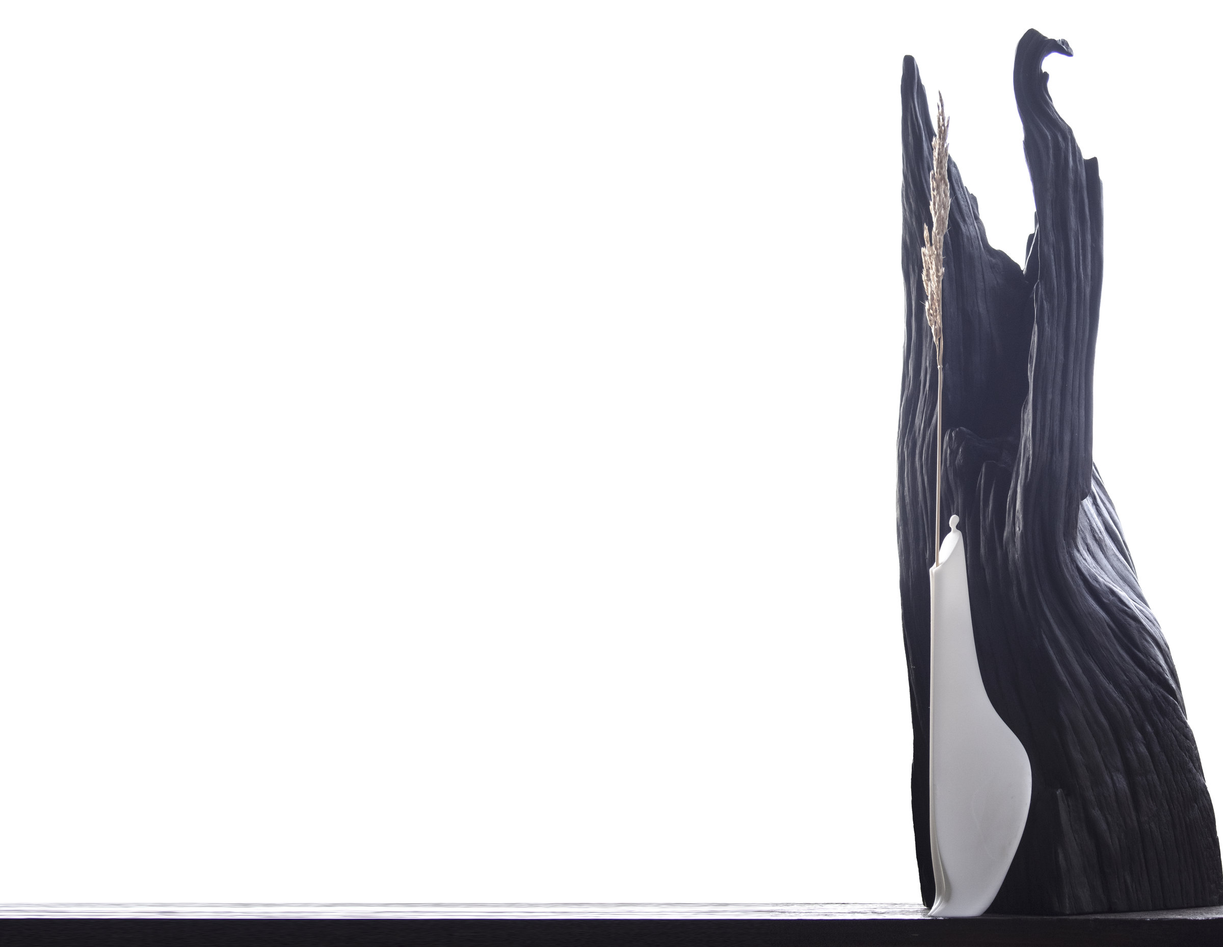
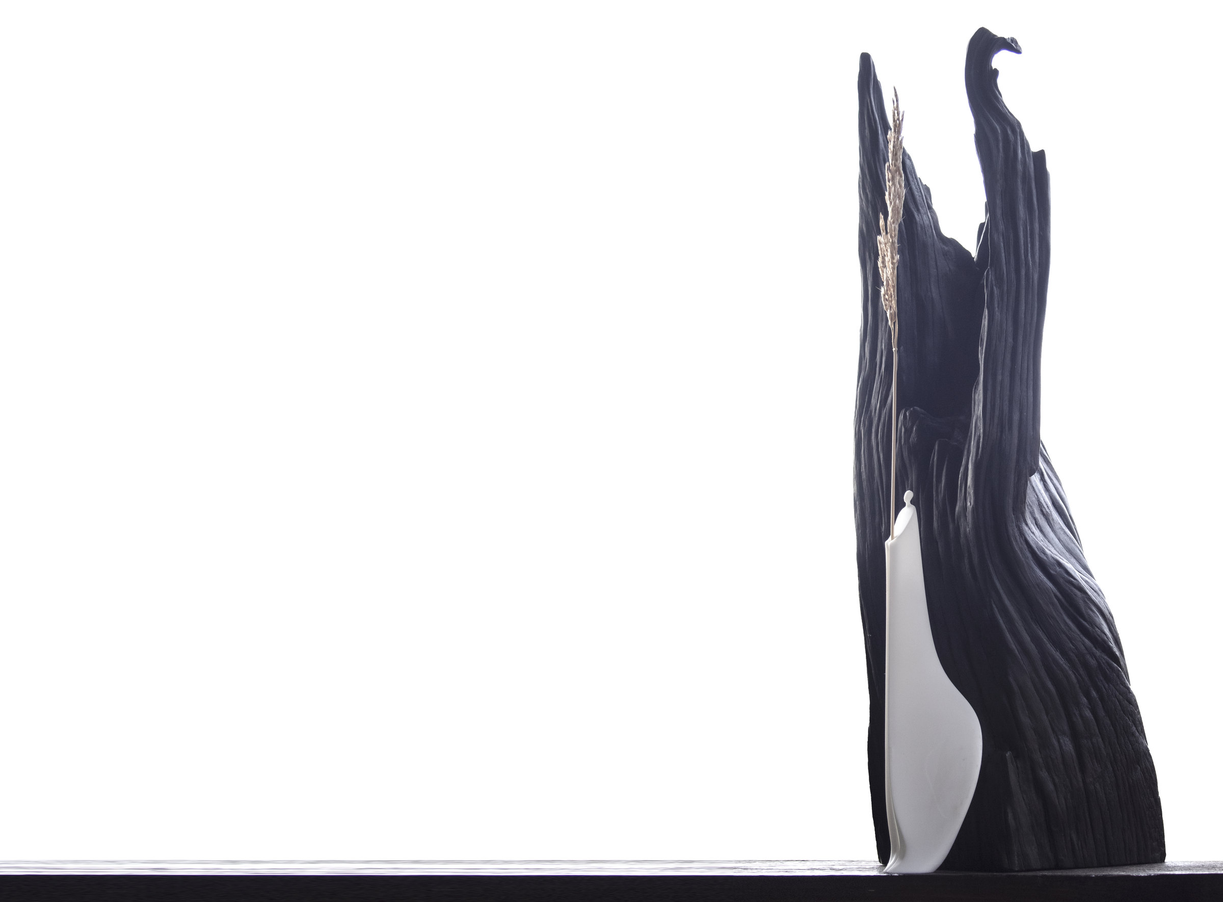
Show the Making photograph whole, with the white beyond the trunk's foot
The photograph was cut at 7300 of the source's 7667 wide, at the trunk's
right edge (2400 x 1858). The author asked for it whole the same evening:
it is now exported at 2400 x 1769, and the motes' lines, which the author
had approved, were scaled by 7300/7667 rather than traced again, since the
cut had been taken off the right only.

These are the author's local changes of 2026-10-30, committed as they were.

Claude-Session: https://claude.ai/code/session_01BNc498tNVJ9g7TFMuu5ZaT

Changed region(s): [[0.6875, 0.0311, 1.0, 0.9949], [0.625, 0.9327, 0.6562, 0.9638]]

diff --git a/public/pandov-grain.js b/public/pandov-grain.js
@@ -25,7 +25,7 @@
 (() => {
   if (window.__pfxGrain) window.__pfxGrain.remove();
   if (matchMedia('(prefers-reduced-motion: reduce)').matches) return;
-  const D = {"w":2400,"h":1858,"lines":[{"p":[2090,1062,2090,1059,2089,1056,2089,1052,2089,1048,2089,1044,2089,1041,2090,1037,2090,1033,2091,1029,2090,1025,2090,1021,2090,1017,2090,1013,2090,1009,2090,1005,2090,1001,2090,997,2090,993,2090,989,2091,985,2091,981,2091,977,2092,973,2092,969,2093,966,2094,962,2095,958,2096,954,2097,950,2097,946,2098,942,2098,938,2098,934,2098,930,2099,926,2099,922,2100,918,2100,914,2101,910,2101,907,2101,903,2101,899,2101,895,2101,891,2101,887,2101,883,2102,879,2102,875,2103,871,2103,867,2103,863,2103,859,2104,855,2104,851,2104,847,2104,843,2103,839,2103,835,2103,831,2103,827,2103,823,2103,819,2104,816,2104,812,2105,808,2105,804,2104,800,2104,796,2104,793,2104,789,2104,785,2104,781,2104,777,2104,773,2104,769,2104,765,2105,761,2105,757,2105,753,2105,749,2106,745,2106,741,2106,737,2107,733,2107,729,2107,725,2107,721,2108,717,2108,713,2108,709,2109,705,2110,701,2110,697,2111,693,2111,689,2112,685,2112,681,2112,678,2112,674,2112,670,2112,666,2112,662,2113,658,2113,654,2113,650,2113,646,2113,642,2113,638,2114,634,2114,630,2114,626,2115,622,2115,618,2115,614,2115,610,2115,606,2115,602,2116,598,2116,594,2116,590,2116,586,2116,582,2116,578,2116,574,2116,570,2116,566,2116,562,2116,558,2117,554,2117,550,2116,546,2116,542,2116,538,2115,534,2115,530,2114,526,2114,522,2114,518,2114,514,2114,510,2114,507,2114,503,2113,499,2113,495,2113,491,2113,487,2113,483,2113,479,2113,475,2113,473],"size":0.85,"major":false},{"p":[2272,1521,2271,1517,2269,1513,2268,1510,2266,1506,2265,1502,2264,1498,2263,1494,2262,1491,2261,1487,2259,1483,2258,1479,2256,1476,2254,1472,2253,1468,2251,1465,2250,1461,2249,1457,2248,1453,2247,1449,2245,1446,2244,1442,2242,1439,2240,1435,2238,1432,2235,1428,2233,1425,2231,1422,2228,1419,2227,1415,2225,1411,2224,1407,2223,1404,2221,1400,2219,1397,2217,1393,2215,1390,2213,1386,2211,1383,2210,1379,2210,1375,2208,1371,2206,1368,2203,1365,2201,1362,2198,1359,2196,1356,2193,1353,2190,1350,2188,1347,2186,1343,2184,1340,2181,1337,2179,1334,2176,1331,2173,1328,2171,1325,2169,1321,2166,1318,2163,1315,2161,1312,2158,1310,2155,1306,2153,1303,2151,1300,2148,1297,2146,1293,2144,1290,2142,1287,2140,1283,2138,1280,2136,1276,2135,1272,2134,1269,2132,1265,2130,1261,2128,1258,2127,1254,2125,1250,2123,1247,2121,1243,2119,1240,2117,1237,2115,1233,2113,1230,2111,1226,2110,1223,2108,1219,2106,1215,2105,1212,2103,1208,2101,1204,2099,1201,2097,1198,2095,1194,2092,1191,2090,1188,2088,1185,2085,1182,2083,1178,2081,1175,2080,1171,2078,1167,2076,1164,2074,1160,2072,1157,2070,1154,2068,1150,2067,1146,2066,1143,2065,1139,2063,1135,2062,1131,2061,1127,2060,1123,2059,1120,2058,1116,2057,1112,2057,1108,2056,1104,2055,1100,2055,1096,2054,1092,2052,1088,2051,1085,2051,1081,2051,1077,2050,1073,2049,1069,2049,1065,2048,1061,2048,1057,2048,1053,2048,1049,2047,1045,2046,1041,2046,1037,2045,1033,2045,1029,2045,1025,2044,1021],"size":1.0,"major":true},{"p":[2235,1616,2234,1612,2233,1608,2233,1604,2233,1600,2232,1596,2231,1592,2230,1588,2228,1585,2227,1581,2227,1577,2226,1573,2225,1569,2224,1565,2223,1561,2222,1557,2221,1554,2219,1550,2218,1546,2217,1542,2216,1538,2216,1534,2214,1530,2213,1527,2213,1523,2212,1519,2211,1515,2210,1511,2210,1507,2209,1503,2207,1500,2205,1496,2204,1492,2203,1489,2201,1485,2200,1481,2199,1477,2197,1473,2196,1470,2196,1466,2195,1462,2194,1458,2193,1454,2191,1450,2190,1446,2189,1443,2187,1439,2186,1435,2184,1432,2182,1428,2181,1424,2179,1421,2177,1417,2175,1414,2173,1410,2171,1407,2169,1403,2167,1400,2165,1396,2163,1393,2161,1390,2160,1386,2158,1382,2157,1379,2155,1375,2154,1371,2152,1368,2150,1364,2149,1360,2149,1356,2149,1352,2148,1348,2145,1345,2143,1342,2140,1339,2138,1336,2136,1332,2134,1329,2132,1325,2130,1322,2128,1318,2127,1315,2125,1311,2122,1308,2120,1305,2117,1302,2115,1298,2113,1295,2112,1291,2112,1287,2112,1283,2111,1279,2109,1275,2107,1272,2105,1269,2103,1265,2102,1262,2100,1258,2098,1254,2095,1251,2092,1248,2090,1246,2087,1243,2084,1240,2082,1237,2079,1234,2077,1230,2076,1226,2074,1223,2072,1220,2069,1216,2067,1213,2066,1209,2064,1205,2062,1202,2060,1198,2059,1195,2057,1191,2055,1187,2054,1184,2053,1180,2051,1176,2050,1173,2048,1169,2047,1165,2046,1161,2044,1157,2043,1154,2042,1150,2041,1146,2040,1142,2039,1138,2038,1134,2037,1130,2036,1127,2035,1123,2035,1119],"size":1.0,"major":true},{"p":[2082,880,2082,876,2082,872,2082,868,2082,864,2082,860,2082,856,2082,852,2082,848,2082,844,2082,840,2082,836,2082,832,2082,828,2082,824,2082,820,2082,816,2083,812,2083,808,2083,804,2083,800,2083,796,2083,792,2083,788,2084,784,2084,780,2084,776,2084,772,2084,768,2085,764,2086,760,2087,756,2087,752,2087,748,2087,744,2087,740,2087,736,2088,732,2089,728,2090,724,2090,720,2090,716,2090,712,2091,709,2091,705,2091,701,2091,697,2091,693,2091,689,2092,685,2092,681,2092,677,2092,673,2092,669,2092,665,2092,661,2092,657,2092,653,2093,649,2094,645,2094,641,2094,637,2094,633,2095,629,2095,625,2095,621,2095,617,2095,613,2096,609,2096,605,2096,601,2096,597,2096,593,2096,589,2096,585,2096,581,2096,577,2096,573,2096,569,2096,565,2096,561,2095,557,2095,553,2095,549,2095,545,2095,541,2095,537,2095,533,2095,529,2095,525,2095,521,2095,517,2095,513,2095,509,2095,505,2095,501,2095,497,2095,493,2095,489,2095,485,2095,481,2094,477,2094,473,2094,469,2093,465,2093,461,2092,457,2092,453,2092,449,2092,445,2092,441,2092,437,2092,433,2092,429,2092,425,2092,421,2092,417,2093,413,2094,410],"size":1.0,"major":true},{"p":[2062,940,2061,936,2061,932,2061,928,2061,924,2061,920,2061,916,2061,912,2061,908,2062,904,2063,900,2063,896,2064,892,2064,888,2065,884,2065,880,2065,876,2064,872,2063,868,2063,864,2062,860,2063,856,2063,852,2064,848,2064,844,2064,840,2064,836,2063,832,2062,829,2061,825,2061,821,2061,817,2062,813,2062,809,2063,805,2063,801,2064,797,2064,793,2065,789,2065,785,2066,781,2066,777,2066,773,2066,769,2066,765,2067,761,2067,757,2067,753,2068,749,2068,745,2069,741,2069,737,2069,733,2070,729,2070,725,2071,721,2072,717,2072,713,2072,709,2073,705,2073,701,2073,697,2073,693,2073,689,2073,685,2073,681,2074,677,2074,673,2074,669,2074,665,2074,661,2074,657,2074,653,2074,649,2074,645,2075,641,2075,637,2075,633,2076,629,2076,625,2076,621,2076,617,2076,613,2077,609,2077,606,2077,602,2077,598,2076,594,2076,590,2076,586,2076,582,2076,578,2076,574,2076,570,2075,566,2075,562,2075,558,2075,554,2075,550,2074,546,2074,542,2073,538,2073,534,2072,530,2072,526,2071,522,2071,518,2070,514,2070,510,2070,506,2069,502,2069,498,2068,494,2068,490,2067,486,2067,482,2067,478],"size":0.749,"major":false},{"p":[1978,1128,1978,1125,1977,1122,1976,1118,1976,1114,1975,1110,1975,1106,1975,1103,1974,1099,1973,1095,1972,1091,1971,1088,1969,1084,1967,1080,1966,1077,1965,1073,1965,1069,1965,1065,1965,1061,1965,1057,1965,1053,1966,1049,1966,1045,1967,1041,1968,1037,1969,1033,1969,1030,1970,1026,1970,1022,1971,1018,1971,1014,1971,1010,1971,1006,1972,1002,1972,998,1973,994,1973,990,1973,986,1974,982,1974,978,1975,974,1976,970,1976,966,1977,963,1978,959,1979,955,1980,951,1980,947,1981,943,1982,939,1982,935,1983,931,1984,927,1985,924,1986,920,1986,916,1987,912,1988,908,1989,904,1990,900,1991,896,1991,892,1992,888,1993,885,1993,881,1994,877,1994,873,1995,869,1996,865,1996,861,1997,857,1997,853,1997,850,1997,846,1998,842,1998,838,1999,834,1999,830,1999,826,1999,822,1999,818,2000,814,2001,810,2001,806,2002,802,2003,798,2004,795,2005,791,2007,787,2008,784,2009,780,2010,776,2011,773,2011,769,2012,765,2012,761,2012,757,2012,753,2012,749,2012,745,2012,741,2013,737,2013,733,2014,730,2014,726,2014,722,2014,718,2015,714,2015,710,2015,706,2016,702,2016,698,2016,694,2017,690,2017,686,2018,682,2018,678,2018,675,2018,671,2017,669],"size":0.812,"major":false},{"p":[2178,1778,2177,1774,2177,1770,2175,1766,2174,1762,2172,1759,2170,1756,2167,1752,2166,1749,2165,1745,2164,1741,2164,1737,2163,1733,2163,1729,2163,1725,2163,1721,2163,1717,2163,1713,2162,1709,2161,1705,2159,1702,2159,1698,2157,1694,2156,1690,2156,1686,2155,1682,2155,1678,2155,1674,2155,1670,2154,1666,2153,1662,2152,1658,2152,1654,2152,1650,2152,1647,2151,1643,2150,1639,2149,1635,2148,1631,2147,1627,2146,1623,2144,1619,2143,1616,2140,1613,2137,1610,2135,1607,2134,1603,2133,1599,2132,1595,2131,1591,2130,1588,2128,1584,2128,1580,2128,1576,2127,1572,2126,1568,2125,1564,2123,1561,2121,1557,2119,1554,2118,1550,2118,1546,2118,1542,2116,1538,2115,1534,2113,1531,2112,1527,2112,1523,2111,1519,2110,1515,2108,1512,2105,1509,2103,1506,2100,1503,2098,1499,2097,1495,2096,1491,2095,1487,2094,1483,2093,1480,2091,1476,2090,1472,2088,1469,2087,1465,2086,1461,2085,1457,2084,1453,2082,1450,2081,1446,2080,1442,2080,1438,2080,1434,2081,1430,2082,1426,2083,1422,2083,1418],"size":1.0,"major":true},{"p":[2312,1551,2311,1548,2310,1544,2309,1540,2308,1536,2306,1532,2305,1529,2304,1525,2303,1521,2302,1517,2301,1513,2300,1509,2299,1505,2298,1502,2296,1498,2295,1494,2293,1491,2291,1487,2289,1483,2288,1480,2286,1476,2284,1473,2282,1469,2280,1466,2278,1462,2276,1459,2274,1455,2273,1452,2272,1448,2271,1444,2270,1440,2268,1436,2267,1433,2265,1429,2263,1426,2261,1422,2259,1419,2257,1415,2256,1411,2255,1407,2252,1404,2250,1401,2248,1397,2246,1394,2244,1390,2243,1387,2241,1383,2240,1379,2239,1375,2239,1371,2239,1367,2238,1363,2236,1360,2234,1356,2232,1353,2230,1349,2228,1346,2225,1343,2223,1340,2220,1337,2218,1334,2215,1331,2212,1328,2210,1325,2208,1321,2205,1318,2203,1315,2201,1312,2198,1308,2195,1305,2193,1302,2190,1299,2188,1296,2185,1293,2184,1289,2182,1286,2180,1282,2177,1279,2175,1276,2172,1273,2169,1271,2166,1269,2162,1266,2159,1264],"size":0.598,"major":false},{"p":[2167,1440,2166,1438,2165,1434,2163,1431,2161,1428,2159,1424,2157,1421,2155,1417,2153,1414,2151,1410,2149,1407,2147,1404,2145,1400,2143,1397,2141,1393,2139,1390,2137,1386,2135,1383,2134,1379,2132,1376,2130,1372,2129,1368,2127,1365,2125,1361,2123,1358,2121,1354,2119,1351,2117,1348,2115,1344,2113,1341,2111,1338,2109,1334,2107,1330,2106,1327,2106,1323,2105,1319,2104,1315,2103,1312,2102,1308,2100,1305,2098,1301,2096,1298,2094,1294,2092,1291,2090,1288,2088,1284,2086,1281,2085,1277,2083,1273,2081,1270,2080,1266,2078,1263,2076,1259,2074,1256,2072,1252,2070,1249,2068,1245,2066,1242,2064,1238,2063,1235,2061,1231,2059,1227,2058,1224,2056,1220,2054,1217,2052,1213,2050,1209,2049,1206,2047,1202,2046,1198,2044,1195,2043,1191,2041,1187,2040,1184,2038,1180,2037,1176,2036,1172,2034,1169,2033,1166,2032,1163],"size":0.545,"major":false},{"p":[2090,318,2090,314,2090,310,2092,307,2093,303,2093,299,2093,295,2093,291,2093,287,2093,283,2092,279,2090,275,2089,272,2087,268,2086,264,2084,261,2082,257,2080,254,2078,250,2076,247,2073,244,2071,241,2068,238,2065,235,2062,232,2060,229,2057,226,2054,223,2051,220,2049,218,2046,215,2043,212,2041,209,2038,205,2036,202,2033,199,2031,196,2030,192,2028,189,2027,185,2025,181,2024,177,2023,173,2023,169,2023,165,2023,161,2023,157,2023,153,2023,149,2024,145,2025,142,2028,139,2030,135,2031,132,2032,128,2033,124,2033,120,2033,116,2033,112,2033,108,2033,104,2033,100,2034,96,2036,92,2038,89,2040,86,2042,82,2041,78,2039,75,2036,72],"size":1.0,"major":true},{"p":[2210,1624,2209,1620,2208,1616,2207,1612,2206,1608,2205,1605,2203,1601,2201,1598,2200,1594,2198,1590,2197,1586,2196,1582,2195,1579,2194,1575,2193,1571,2192,1567,2191,1563,2190,1559,2189,1555,2189,1551,2188,1547,2187,1543,2186,1540,2185,1536,2183,1532,2182,1528,2181,1525,2179,1521,2178,1517,2176,1513,2174,1510,2172,1506,2170,1503,2169,1499,2167,1496,2166,1492,2164,1488,2163,1484,2161,1481,2159,1477,2158,1473,2158,1469,2157,1465,2155,1462,2154,1458,2152,1454,2151,1451,2149,1447,2147,1444,2145,1440,2144,1436,2142,1433,2140,1429,2138,1425,2137,1422,2135,1418,2133,1415,2132,1411,2130,1407,2128,1404,2127,1400,2125,1397,2122,1394],"size":0.484,"major":false},{"p":[2066,440,2066,436,2066,432,2065,428,2065,424,2065,420,2065,416,2065,412,2065,408,2065,404,2065,400,2067,396,2070,393,2072,390,2073,386,2073,382,2073,378,2073,374,2072,370,2072,366,2072,362,2072,358,2072,354,2073,350,2073,346,2073,342,2073,338,2073,334,2073,330,2073,326,2073,322,2072,318,2072,314,2071,310,2070,306,2070,302,2070,298,2070,294,2071,290,2073,287,2074,283,2074,279,2073,275,2072,271,2070,268,2068,264,2066,261,2064,258,2061,255,2058,251,2056,248,2055,245,2054,241,2055,237,2055,233,2055,229],"size":1.0,"major":true},{"p":[1933,1145,1933,1141,1933,1137,1932,1133,1932,1129,1931,1125,1930,1121,1929,1117,1926,1114,1924,1110,1923,1107,1922,1103,1921,1099,1920,1095,1920,1091,1920,1087,1920,1083,1920,1079,1920,1075,1920,1071,1921,1067,1921,1063,1921,1059,1921,1055,1921,1051,1921,1047,1921,1043,1920,1039,1920,1035,1920,1031,1921,1027,1921,1023,1921,1019,1920,1015,1920,1011,1920,1007,1920,1003,1920,999,1920,995,1920,991,1921,987,1921,983,1921,979,1921,975,1921,971,1922,967,1922,963,1922,959,1922,955,1922,951,1923,947,1923,943,1924,939,1925,935,1925,931],"size":0.437,"major":false},{"p":[2258,1300,2256,1297,2254,1293,2251,1290,2249,1287,2246,1284,2243,1282,2240,1279,2237,1277,2234,1274,2232,1271,2229,1267,2227,1264,2225,1261,2223,1257,2220,1254,2217,1251,2214,1249,2211,1247,2208,1244,2205,1242,2202,1239,2199,1236,2196,1233,2194,1230,2192,1227,2189,1224,2187,1220,2185,1217,2182,1214,2180,1211,2177,1208,2175,1205,2172,1202,2169,1199,2167,1196,2164,1193,2161,1190,2159,1187,2156,1184,2153,1181,2151,1177,2148,1174,2146,1171,2143,1168,2141,1165,2138,1162,2135,1160,2132,1156],"size":0.449,"major":false},{"p":[1923,672,1923,668,1923,664,1923,660,1923,656,1922,652,1922,648,1922,644,1923,640,1923,636,1923,632,1923,628,1922,624,1922,620,1921,616,1920,612,1920,608,1919,604,1918,600,1917,596,1917,592,1916,588,1916,584,1916,580,1915,576,1915,572,1915,568,1915,564,1914,560,1914,556,1913,552,1912,548,1912,544,1912,540,1912,536,1912,532,1911,528,1911,524,1910,521,1908,517,1908,513,1907,509,1907,505,1908,501],"size":0.33,"major":false},{"p":[1953,1123,1952,1119,1951,1115,1951,1111,1951,1107,1951,1103,1952,1099,1952,1095,1953,1091,1953,1087,1952,1083,1952,1079,1951,1076,1950,1072,1950,1068,1950,1064,1950,1060,1949,1056,1948,1052,1947,1048,1946,1044,1946,1040,1945,1036,1945,1032,1945,1028,1945,1024,1946,1020,1946,1016,1947,1012,1948,1008,1948,1004,1949,1000,1949,996,1950,992,1951,988,1951,985,1951,981,1952,977,1952,973,1952,969,1953,965,1953,961,1954,957,1954,953],"size":0.348,"major":false},{"p":[2032,906,2034,902,2036,899,2037,895,2038,891,2038,887,2039,883,2039,879,2040,875,2041,871,2042,868,2043,864,2044,860,2045,856,2046,852,2046,848,2046,844,2046,840,2047,836,2047,832,2048,828,2048,824,2048,820,2048,816,2048,812,2048,808,2048,804,2048,800,2048,796,2048,792,2049,788,2049,784,2049,780,2050,776,2050,772,2051,768,2051,764,2051,760,2052,756,2052,752,2053,748,2053,744,2052,741,2052,737],"size":0.352,"major":false},{"p":[2015,1116,2015,1112,2014,1108,2013,1104,2012,1100,2011,1096,2010,1092,2008,1089,2007,1085,2007,1081,2007,1077,2007,1073,2006,1069,2006,1065,2006,1061,2005,1057,2005,1053,2006,1049,2007,1045,2009,1041,2010,1038,2011,1034,2011,1030,2011,1026,2010,1022,2010,1018,2010,1014,2010,1010,2010,1006,2012,1002,2013,998,2014,994,2015,990,2015,986,2015,982,2015,978,2015,974,2015,970,2015,966,2015,962,2015,958],"size":0.376,"major":false},{"p":[2261,1336,2258,1333,2256,1330,2254,1327,2252,1323,2249,1320,2247,1317,2244,1315,2241,1312,2238,1309,2235,1306,2232,1304,2229,1301,2227,1298,2224,1294,2222,1291,2220,1288,2217,1285,2214,1282,2212,1279,2209,1276,2207,1273,2204,1270,2202,1267,2199,1263,2197,1260,2195,1257,2193,1253,2191,1250,2188,1247,2186,1243,2184,1240,2182,1236,2180,1233,2177,1230,2175,1227,2173,1223,2171,1220,2168,1217,2166,1214],"size":0.402,"major":false},{"p":[2104,1373,2102,1369,2100,1366,2098,1362,2096,1359,2094,1355,2092,1352,2089,1348,2087,1345,2085,1342,2082,1339,2080,1336,2077,1333,2075,1329,2074,1326,2072,1322,2070,1318,2069,1314,2068,1311,2066,1307,2065,1303,2063,1300,2062,1296,2060,1292,2058,1289,2056,1285,2055,1281,2053,1278,2051,1274,2049,1271,2048,1267,2046,1263,2045,1259,2044,1256,2043,1252,2042,1248,2041,1244],"size":0.319,"major":false},{"p":[1801,1111,1801,1107,1802,1103,1801,1099,1801,1095,1801,1091,1800,1087,1799,1083,1799,1079,1799,1075,1799,1071,1799,1067,1799,1063,1799,1059,1799,1055,1799,1051,1799,1047,1798,1043,1798,1039,1797,1035,1797,1031,1797,1027,1798,1023,1797,1019,1797,1015,1797,1011,1796,1008,1796,1004,1796,1000,1797,996,1798,992,1799,988,1799,984,1798,980,1798,976,1798,972,1797,968],"size":0.311,"major":false},{"p":[2260,1761,2260,1757,2260,1753,2259,1749,2259,1745,2258,1741,2257,1737,2256,1733,2256,1729,2255,1725,2254,1721,2253,1717,2253,1713,2252,1709,2251,1705,2250,1702,2250,1698,2249,1694,2248,1690,2248,1686,2247,1682,2246,1678,2245,1674,2245,1670,2245,1666,2244,1662,2244,1658,2243,1654,2242,1650,2242,1646,2241,1642,2240,1638,2239,1635,2238,1631],"size":0.327,"major":false},{"p":[1945,651,1944,647,1943,643,1943,639,1942,636,1942,632,1941,628,1941,624,1940,620,1939,616,1938,612,1938,608,1937,604,1936,600,1935,596,1935,592,1934,588,1933,584,1933,580,1933,576,1933,572,1932,568,1932,564,1932,560,1931,556,1931,552,1930,548,1930,545,1929,541,1928,537,1928,533,1928,529,1927,525,1926,521],"size":0.303,"major":false},{"p":[2315,1691,2314,1687,2314,1683,2313,1679,2313,1675,2312,1671,2311,1667,2310,1663,2309,1660,2309,1656,2308,1652,2307,1648,2306,1644,2305,1640,2305,1636,2304,1632,2304,1628,2304,1624,2303,1620,2302,1616,2302,1612,2301,1608,2300,1604,2299,1600,2298,1597,2297,1593,2296,1589,2295,1585,2293,1581,2292,1578,2291,1574,2289,1570,2288,1566],"size":0.314,"major":false},{"p":[2100,1156,2099,1152,2097,1149,2095,1145,2093,1142,2091,1138,2089,1135,2088,1131,2086,1127,2084,1124,2083,1120,2082,1116,2080,1113,2079,1109,2078,1105,2077,1101,2076,1097,2075,1093,2074,1089,2073,1085,2073,1081,2072,1078,2071,1074,2071,1070,2070,1066,2069,1062,2068,1058,2068,1054,2067,1050,2067,1046,2068,1042,2068,1038,2067,1034],"size":0.289,"major":false},{"p":[2152,1205,2150,1202,2147,1199,2145,1196,2142,1193,2139,1190,2137,1187,2134,1184,2132,1180,2130,1177,2128,1174,2126,1170,2123,1167,2121,1164,2118,1161,2116,1158,2114,1154,2113,1150,2112,1147,2110,1143,2108,1140,2106,1136,2104,1133,2102,1129,2100,1126,2098,1122,2096,1118,2095,1115,2093,1111,2092,1107,2090,1104,2089,1100],"size":0.271,"major":false},{"p":[2285,1414,2284,1411,2283,1407,2282,1403,2280,1399,2279,1396,2277,1392,2276,1388,2274,1384,2272,1381,2270,1378,2268,1374,2266,1371,2265,1367,2263,1363,2261,1360,2259,1356,2256,1353,2254,1350,2251,1348,2248,1345,2245,1342,2242,1339,2240,1336,2237,1333,2235,1329,2233,1326,2231,1322,2230,1319,2228,1315,2225,1312],"size":0.307,"major":false},{"p":[2011,1197,2010,1193,2009,1189,2008,1186,2006,1182,2005,1178,2004,1174,2003,1170,2002,1166,2001,1162,2001,1159,2000,1155,2000,1151,1999,1147,1998,1143,1998,1139,1997,1135,1996,1131,1996,1127,1995,1123,1994,1119,1993,1115,1992,1111,1991,1107,1990,1104,1989,1100,1990,1096,1991,1092],"size":0.281,"major":false},{"p":[1878,966,1878,962,1877,958,1876,954,1875,950,1875,946,1874,942,1874,938,1873,934,1873,930,1873,926,1872,922,1872,918,1872,914,1872,910,1872,906,1872,902,1874,899,1875,895,1876,891,1877,887,1878,883,1879,879,1880,876,1881,872,1883,868,1885,865],"size":0.264,"major":false},{"p":[2284,1762,2283,1758,2282,1754,2282,1750,2281,1746,2281,1742,2280,1738,2280,1734,2279,1730,2279,1726,2278,1722,2278,1718,2277,1714,2277,1710,2276,1706,2276,1702,2275,1698,2274,1695,2273,1691,2272,1687,2271,1683,2270,1679,2270,1675,2269,1671,2268,1667,2267,1663],"size":0.271,"major":false},{"p":[2126,461,2126,457,2125,453,2125,449,2124,445,2124,441,2124,437,2125,433,2126,429,2126,425,2126,421,2126,417,2125,413,2125,409,2125,405,2124,401,2124,397,2123,393,2123,389,2122,385,2122,381,2121,377,2121,373,2121,369,2121,365,2121,361],"size":0.279,"major":false},{"p":[2134,1480,2132,1476,2130,1473,2128,1470,2126,1466,2123,1463,2121,1460,2120,1456,2118,1453,2116,1449,2115,1445,2113,1442,2111,1438,2109,1435,2108,1431,2106,1427,2105,1423,2103,1420,2102,1416,2100,1412,2098,1409,2096,1405,2094,1402,2093,1398,2092,1394],"size":0.248,"major":false},{"p":[2034,586,2033,582,2034,578,2034,574,2034,570,2035,566,2035,562,2036,558,2038,554,2040,551,2041,547,2042,543,2043,539,2043,535,2043,531,2043,527,2043,523,2043,519,2043,515,2043,511,2044,507,2045,503,2046,500,2047,496,2048,492],"size":0.242,"major":false}]};
+  const D = {"w":2400,"h":1769,"lines":[{"p":[1990,1011,1990,1008,1989,1005,1989,1002,1989,998,1989,994,1989,991,1990,987,1990,984,1991,980,1990,976,1990,972,1990,968,1990,965,1990,961,1990,957,1990,953,1990,949,1990,945,1990,942,1991,938,1991,934,1991,930,1992,926,1992,923,1993,920,1994,916,1995,912,1996,908,1997,905,1997,901,1998,897,1998,893,1998,889,1998,885,1999,882,1999,878,1999,874,1999,870,2000,866,2000,864,2000,860,2000,856,2000,852,2000,848,2000,845,2000,841,2001,837,2001,833,2002,829,2002,825,2002,822,2002,818,2003,814,2003,810,2003,806,2003,803,2002,799,2002,795,2002,791,2002,787,2002,784,2002,780,2003,777,2003,773,2004,769,2004,766,2003,762,2003,758,2003,755,2003,751,2003,747,2003,744,2003,740,2003,736,2003,732,2003,728,2004,725,2004,721,2004,717,2004,713,2005,709,2005,706,2005,702,2006,698,2006,694,2006,690,2006,686,2007,683,2007,679,2007,675,2008,671,2009,667,2009,664,2010,660,2010,656,2011,652,2011,648,2011,646,2011,642,2011,638,2011,634,2011,630,2012,627,2012,623,2012,619,2012,615,2012,611,2012,607,2013,604,2013,600,2013,596,2014,592,2014,588,2014,585,2014,581,2014,577,2014,573,2015,569,2015,566,2015,562,2015,558,2015,554,2015,550,2015,547,2015,543,2015,539,2015,535,2015,531,2016,527,2016,524,2015,520,2015,516,2015,512,2014,508,2014,505,2013,501,2013,497,2013,493,2013,489,2013,486,2013,483,2013,479,2012,475,2012,471,2012,467,2012,464,2012,460,2012,456,2012,452,2012,450],"size":0.85,"major":false},{"p":[2163,1448,2162,1444,2160,1441,2159,1438,2158,1434,2157,1430,2156,1426,2155,1422,2154,1420,2153,1416,2151,1412,2150,1408,2148,1405,2146,1402,2145,1398,2143,1395,2142,1391,2141,1387,2140,1383,2139,1380,2138,1377,2137,1373,2135,1370,2133,1366,2131,1363,2128,1360,2126,1357,2124,1354,2121,1351,2120,1347,2118,1343,2118,1340,2117,1337,2115,1333,2113,1330,2111,1326,2109,1323,2107,1320,2105,1317,2104,1313,2104,1309,2102,1305,2100,1303,2098,1300,2096,1297,2093,1294,2091,1291,2088,1288,2085,1285,2083,1283,2081,1279,2079,1276,2077,1273,2075,1270,2072,1267,2069,1264,2067,1262,2065,1258,2062,1255,2059,1252,2058,1249,2055,1247,2052,1243,2050,1241,2048,1238,2045,1235,2043,1231,2041,1228,2039,1225,2038,1222,2036,1219,2034,1215,2033,1211,2032,1208,2030,1204,2028,1201,2026,1198,2025,1194,2023,1190,2021,1187,2019,1184,2018,1181,2016,1178,2014,1174,2012,1171,2010,1167,2009,1164,2007,1161,2005,1157,2004,1154,2002,1150,2000,1146,1999,1144,1997,1141,1995,1137,1992,1134,1990,1131,1988,1128,1985,1125,1983,1122,1981,1119,1980,1115,1979,1111,1977,1108,1975,1104,1973,1102,1971,1099,1969,1095,1968,1091,1967,1088,1966,1084,1964,1081,1963,1077,1962,1073,1961,1069,1960,1066,1959,1063,1959,1059,1959,1055,1958,1051,1957,1047,1957,1044,1956,1040,1954,1036,1953,1033,1953,1029,1953,1025,1952,1022,1951,1018,1951,1014,1950,1010,1950,1006,1950,1003,1950,999,1949,995,1948,991,1948,987,1947,984,1947,980,1947,976,1946,972],"size":1.0,"major":true},{"p":[2128,1539,2127,1535,2126,1531,2126,1527,2126,1523,2125,1520,2124,1516,2123,1512,2121,1509,2120,1505,2120,1502,2119,1498,2118,1494,2118,1490,2117,1486,2116,1482,2115,1480,2113,1476,2112,1472,2111,1468,2110,1464,2110,1461,2108,1457,2107,1454,2107,1450,2106,1446,2105,1442,2104,1439,2104,1435,2103,1431,2101,1428,2099,1424,2099,1421,2098,1418,2096,1414,2095,1410,2094,1406,2092,1402,2091,1400,2091,1396,2090,1392,2089,1388,2088,1384,2086,1381,2085,1377,2084,1374,2082,1370,2081,1366,2079,1363,2078,1360,2077,1356,2075,1353,2073,1349,2071,1346,2069,1343,2067,1340,2065,1336,2063,1333,2061,1329,2059,1326,2058,1323,2057,1320,2055,1316,2054,1313,2052,1309,2051,1305,2049,1303,2047,1299,2046,1295,2046,1291,2046,1287,2045,1283,2042,1281,2040,1278,2038,1275,2036,1272,2034,1268,2032,1265,2030,1262,2028,1259,2026,1255,2025,1252,2023,1248,2020,1245,2019,1243,2016,1240,2014,1236,2012,1233,2011,1229,2011,1225,2011,1222,2010,1218,2008,1214,2006,1211,2004,1208,2002,1204,2001,1202,1999,1198,1998,1194,1995,1191,1992,1188,1990,1186,1987,1184,1984,1181,1982,1178,1979,1175,1978,1171,1977,1167,1975,1164,1973,1162,1970,1158,1968,1155,1967,1151,1965,1147,1963,1144,1961,1141,1960,1138,1959,1134,1957,1130,1956,1127,1955,1124,1953,1120,1952,1117,1950,1113,1949,1109,1948,1105,1946,1102,1945,1099,1944,1095,1943,1091,1942,1087,1941,1084,1940,1080,1939,1076,1939,1073,1938,1069,1938,1065],"size":1.0,"major":true},{"p":[1982,838,1982,834,1982,830,1982,826,1982,823,1982,819,1982,815,1982,811,1982,807,1982,804,1982,800,1982,796,1982,792,1982,788,1982,785,1982,781,1982,777,1983,773,1983,769,1983,766,1983,762,1983,758,1983,754,1983,750,1984,746,1984,743,1984,739,1984,735,1984,731,1985,727,1986,724,1987,720,1987,716,1987,712,1987,708,1987,705,1987,701,1988,697,1989,693,1990,689,1990,686,1990,682,1990,678,1991,675,1991,671,1991,667,1991,664,1991,660,1991,656,1992,652,1992,648,1992,645,1992,641,1992,637,1992,633,1992,629,1992,626,1992,622,1993,618,1994,614,1994,610,1994,607,1994,603,1995,599,1995,595,1995,591,1995,587,1995,584,1996,580,1996,576,1996,572,1996,568,1996,565,1996,561,1996,557,1996,553,1996,549,1996,546,1996,542,1996,538,1996,534,1995,530,1995,527,1995,523,1995,519,1995,515,1995,511,1995,507,1995,504,1995,500,1995,496,1995,492,1995,488,1995,485,1995,481,1995,477,1995,473,1995,469,1995,466,1995,462,1995,458,1994,454,1994,450,1994,447,1993,443,1993,439,1992,435,1992,431,1992,428,1992,424,1992,420,1992,416,1992,412,1992,408,1992,405,1992,401,1992,397,1993,393,1994,390],"size":1.0,"major":true},{"p":[1963,895,1962,891,1962,887,1962,884,1962,880,1962,876,1962,872,1962,868,1962,865,1963,861,1964,857,1964,853,1965,849,1965,845,1966,842,1966,838,1966,834,1965,830,1964,826,1964,823,1963,819,1964,815,1964,811,1965,807,1965,804,1965,800,1965,796,1964,792,1963,789,1962,786,1962,782,1962,778,1963,774,1963,770,1964,766,1964,763,1965,759,1965,755,1966,751,1966,747,1967,744,1967,740,1967,736,1967,732,1967,728,1968,725,1968,721,1968,717,1969,713,1969,709,1970,706,1970,702,1970,698,1971,694,1971,690,1972,686,1973,683,1973,679,1973,675,1974,671,1974,667,1974,664,1974,660,1974,656,1974,652,1974,648,1975,645,1975,641,1975,637,1975,633,1975,629,1975,626,1975,622,1975,618,1975,614,1976,610,1976,607,1976,603,1977,599,1977,595,1977,591,1977,587,1977,584,1978,580,1978,577,1978,573,1978,569,1977,566,1977,562,1977,558,1977,554,1977,550,1977,547,1977,543,1976,539,1976,535,1976,531,1976,527,1976,524,1975,520,1975,516,1974,512,1974,508,1973,505,1973,501,1972,497,1972,493,1971,489,1971,486,1971,482,1970,478,1970,474,1969,470,1969,467,1968,463,1968,459,1968,455],"size":0.749,"major":false},{"p":[1883,1074,1883,1071,1882,1068,1881,1064,1881,1061,1880,1057,1880,1053,1880,1050,1880,1046,1879,1043,1878,1039,1877,1036,1875,1032,1873,1028,1872,1025,1871,1022,1871,1018,1871,1014,1871,1010,1871,1006,1871,1003,1872,999,1872,995,1873,991,1874,987,1875,984,1875,981,1876,977,1876,973,1877,969,1877,965,1877,962,1877,958,1878,954,1878,950,1879,946,1879,943,1879,939,1880,935,1880,931,1880,927,1881,924,1881,920,1882,917,1883,913,1884,909,1885,905,1885,902,1886,898,1887,894,1887,890,1888,886,1889,883,1890,880,1891,876,1891,872,1892,868,1893,865,1894,861,1895,857,1896,853,1896,849,1897,845,1898,843,1898,839,1899,835,1899,831,1900,827,1900,824,1900,820,1901,816,1901,812,1901,809,1901,806,1902,802,1902,798,1903,794,1903,790,1903,786,1903,783,1903,779,1904,775,1905,771,1905,767,1906,764,1907,760,1908,757,1909,753,1911,749,1912,746,1913,743,1914,739,1915,736,1915,732,1916,728,1916,725,1916,721,1916,717,1916,713,1916,709,1916,706,1917,702,1917,698,1918,695,1918,691,1918,687,1918,684,1919,680,1919,676,1919,672,1919,668,1919,665,1919,661,1920,657,1920,653,1921,649,1921,646,1921,643,1921,639,1920,637],"size":0.812,"major":false},{"p":[2074,1693,2073,1689,2073,1685,2071,1681,2070,1678,2068,1675,2066,1672,2063,1668,2062,1665,2061,1661,2060,1658,2060,1654,2059,1650,2059,1646,2059,1642,2059,1639,2059,1635,2059,1631,2059,1627,2058,1623,2056,1621,2056,1617,2054,1613,2053,1609,2053,1605,2052,1601,2052,1598,2052,1594,2052,1590,2051,1586,2050,1582,2049,1579,2049,1575,2049,1571,2049,1568,2048,1564,2047,1561,2046,1557,2045,1553,2044,1549,2043,1545,2041,1542,2040,1539,2038,1536,2035,1533,2033,1530,2032,1526,2031,1522,2030,1519,2029,1515,2028,1512,2026,1508,2026,1504,2026,1501,2025,1497,2024,1493,2023,1489,2021,1486,2019,1482,2018,1480,2017,1476,2017,1472,2017,1468,2015,1464,2014,1461,2012,1458,2011,1454,2011,1450,2010,1446,2009,1442,2007,1440,2004,1437,2002,1434,1999,1431,1998,1427,1997,1423,1996,1420,1995,1416,1994,1412,1993,1409,1991,1405,1990,1402,1988,1399,1987,1395,1986,1391,1985,1387,1984,1383,1982,1381,1981,1377,1980,1373,1980,1369,1980,1365,1981,1362,1982,1358,1983,1354,1983,1350],"size":1.0,"major":true},{"p":[2201,1477,2200,1474,2199,1470,2198,1466,2198,1462,2196,1459,2195,1456,2194,1452,2193,1448,2192,1444,2191,1441,2190,1437,2189,1433,2188,1430,2186,1426,2185,1422,2183,1420,2181,1416,2179,1412,2178,1409,2177,1405,2175,1402,2173,1399,2171,1396,2169,1392,2167,1389,2165,1385,2164,1382,2163,1379,2162,1375,2161,1371,2159,1367,2158,1364,2157,1361,2155,1358,2153,1354,2151,1351,2149,1347,2148,1343,2147,1340,2144,1337,2142,1334,2140,1330,2138,1327,2137,1323,2136,1321,2134,1317,2133,1313,2132,1309,2132,1305,2132,1302,2131,1298,2129,1295,2127,1291,2125,1288,2123,1284,2121,1282,2118,1279,2117,1276,2114,1273,2112,1270,2109,1267,2106,1264,2104,1262,2102,1258,2099,1255,2098,1252,2096,1249,2093,1245,2090,1243,2088,1240,2085,1237,2083,1234,2080,1231,2079,1227,2078,1224,2076,1221,2073,1218,2071,1215,2068,1212,2065,1210,2062,1208,2059,1205,2056,1203],"size":0.598,"major":false},{"p":[2063,1371,2062,1369,2061,1365,2059,1363,2058,1360,2056,1356,2054,1353,2052,1349,2050,1346,2048,1343,2046,1340,2044,1337,2042,1333,2040,1330,2039,1326,2037,1323,2035,1320,2033,1317,2032,1313,2030,1310,2028,1306,2027,1303,2025,1300,2023,1296,2021,1293,2019,1289,2018,1286,2016,1283,2014,1280,2012,1277,2010,1274,2008,1270,2006,1266,2005,1263,2005,1260,2004,1256,2003,1252,2002,1249,2001,1245,1999,1243,1998,1239,1996,1236,1994,1232,1992,1229,1990,1226,1988,1223,1986,1220,1985,1216,1983,1212,1981,1209,1980,1205,1979,1203,1977,1199,1975,1196,1973,1192,1971,1189,1969,1185,1967,1183,1965,1179,1964,1176,1962,1172,1960,1168,1959,1165,1958,1162,1956,1159,1954,1155,1952,1151,1951,1148,1949,1144,1948,1141,1946,1138,1945,1134,1943,1130,1942,1127,1940,1124,1939,1120,1939,1116,1937,1113,1936,1110,1935,1107],"size":0.545,"major":false},{"p":[1990,303,1990,299,1990,295,1992,292,1993,288,1993,285,1993,281,1993,277,1993,273,1993,269,1992,266,1990,262,1989,259,1987,255,1986,251,1984,249,1982,245,1980,242,1979,238,1977,235,1974,232,1972,229,1969,227,1966,224,1963,221,1961,218,1959,215,1956,212,1953,209,1951,208,1948,205,1945,202,1943,199,1940,195,1939,192,1936,189,1934,187,1933,183,1931,180,1930,176,1928,172,1927,169,1926,165,1926,161,1926,157,1926,153,1926,149,1926,146,1926,142,1927,138,1928,135,1931,132,1933,129,1934,126,1935,122,1936,118,1936,114,1936,110,1936,107,1936,103,1936,99,1936,95,1937,91,1939,88,1940,85,1942,82,1944,78,1943,74,1941,71,1939,69],"size":1.0,"major":true},{"p":[2104,1546,2103,1542,2102,1539,2101,1535,2100,1531,2099,1528,2098,1524,2096,1522,2095,1518,2093,1514,2092,1510,2091,1506,2090,1503,2089,1500,2088,1496,2087,1492,2086,1488,2085,1484,2084,1481,2084,1477,2083,1473,2082,1469,2081,1466,2080,1462,2079,1459,2078,1455,2077,1452,2075,1448,2074,1444,2072,1441,2070,1438,2068,1434,2066,1431,2065,1427,2063,1424,2062,1421,2060,1417,2059,1413,2058,1410,2056,1406,2055,1402,2055,1399,2054,1395,2052,1392,2051,1388,2049,1384,2048,1382,2046,1378,2044,1375,2042,1371,2041,1367,2039,1364,2038,1361,2036,1357,2035,1354,2033,1350,2031,1347,2030,1343,2028,1340,2026,1337,2025,1333,2023,1330,2020,1327],"size":0.484,"major":false},{"p":[1967,419,1967,415,1967,411,1966,408,1966,404,1966,400,1966,396,1966,392,1966,388,1966,385,1966,381,1968,377,1971,374,1973,371,1974,368,1974,364,1974,360,1974,356,1973,352,1973,348,1973,345,1973,341,1973,337,1974,333,1974,329,1974,326,1974,322,1974,318,1974,314,1974,310,1974,307,1973,303,1973,299,1972,295,1971,291,1971,288,1971,284,1971,280,1972,276,1974,273,1975,269,1975,266,1974,262,1973,258,1971,255,1969,251,1967,249,1965,246,1962,243,1959,239,1958,236,1957,233,1956,229,1957,226,1957,222,1957,218],"size":1.0,"major":true},{"p":[1840,1090,1840,1086,1840,1083,1840,1079,1840,1075,1839,1071,1838,1067,1837,1064,1834,1061,1832,1057,1831,1054,1830,1050,1829,1046,1828,1043,1828,1039,1828,1035,1828,1031,1828,1027,1828,1024,1828,1020,1829,1016,1829,1012,1829,1008,1829,1004,1829,1001,1829,997,1829,993,1828,989,1828,985,1828,982,1829,978,1829,974,1829,970,1828,966,1828,963,1828,959,1828,955,1828,951,1828,947,1828,944,1829,940,1829,936,1829,932,1829,928,1829,925,1830,921,1830,917,1830,913,1830,909,1830,905,1831,902,1831,898,1832,894,1833,890,1833,886],"size":0.437,"major":false},{"p":[2150,1238,2148,1235,2146,1231,2143,1228,2141,1225,2138,1223,2136,1221,2133,1218,2130,1216,2127,1213,2125,1210,2122,1206,2120,1203,2118,1201,2117,1197,2114,1194,2111,1191,2108,1189,2105,1187,2102,1184,2099,1183,2097,1180,2094,1177,2091,1174,2089,1171,2087,1168,2084,1165,2082,1162,2080,1159,2078,1156,2076,1153,2073,1150,2071,1147,2068,1144,2065,1142,2063,1139,2060,1136,2058,1133,2056,1130,2053,1127,2050,1124,2048,1121,2045,1118,2043,1115,2040,1112,2039,1109,2036,1106,2033,1104,2030,1101],"size":0.449,"major":false},{"p":[1831,640,1831,636,1831,632,1831,628,1831,625,1830,621,1830,617,1830,613,1831,609,1831,606,1831,602,1831,598,1830,594,1830,590,1829,587,1828,583,1828,579,1827,575,1826,571,1825,567,1825,564,1824,560,1824,556,1824,552,1823,548,1823,545,1823,541,1823,537,1822,533,1822,529,1821,526,1820,522,1820,518,1820,514,1820,510,1820,507,1820,503,1820,499,1819,496,1817,492,1817,488,1816,485,1816,481,1817,477],"size":0.33,"major":false},{"p":[1860,1069,1859,1065,1858,1062,1858,1058,1858,1054,1858,1050,1859,1046,1859,1043,1860,1039,1860,1035,1859,1031,1859,1027,1858,1024,1857,1021,1857,1017,1857,1013,1857,1009,1856,1005,1855,1002,1854,998,1853,994,1853,990,1852,986,1852,983,1852,979,1852,975,1853,971,1853,967,1854,964,1855,960,1855,956,1856,952,1856,948,1857,945,1858,941,1858,938,1858,934,1859,930,1859,926,1859,923,1860,919,1860,915,1860,911,1860,907],"size":0.348,"major":false},{"p":[1935,863,1937,859,1939,856,1939,852,1940,848,1940,845,1941,841,1941,837,1942,833,1943,829,1944,826,1945,823,1946,819,1947,815,1948,811,1948,807,1948,804,1948,800,1949,796,1949,792,1950,788,1950,785,1950,781,1950,777,1950,773,1950,769,1950,766,1950,762,1950,758,1950,754,1951,750,1951,746,1951,743,1952,739,1952,735,1953,731,1953,727,1953,724,1954,720,1954,716,1955,712,1955,708,1954,706,1954,702],"size":0.352,"major":false},{"p":[1919,1063,1919,1059,1918,1055,1917,1051,1916,1047,1915,1044,1914,1040,1912,1037,1911,1033,1911,1029,1911,1025,1911,1022,1910,1018,1910,1014,1910,1010,1909,1006,1909,1003,1910,999,1911,995,1913,991,1914,988,1915,985,1915,981,1915,977,1914,973,1914,969,1914,965,1914,962,1914,958,1916,954,1917,950,1918,946,1919,943,1919,939,1919,935,1919,931,1919,927,1919,924,1919,920,1919,916,1919,912],"size":0.376,"major":false},{"p":[2153,1272,2150,1269,2148,1266,2146,1263,2144,1260,2141,1257,2139,1254,2137,1252,2134,1249,2131,1246,2128,1243,2125,1242,2122,1239,2120,1236,2118,1232,2116,1229,2114,1226,2111,1223,2108,1221,2106,1218,2103,1215,2101,1212,2099,1209,2097,1206,2094,1203,2092,1200,2090,1197,2088,1193,2086,1190,2083,1187,2081,1184,2079,1181,2078,1177,2076,1174,2073,1171,2071,1168,2069,1164,2067,1162,2064,1159,2062,1156],"size":0.402,"major":false},{"p":[2003,1307,2001,1303,1999,1301,1998,1297,1996,1294,1994,1290,1992,1287,1989,1283,1987,1281,1985,1278,1982,1275,1980,1272,1978,1269,1976,1265,1975,1263,1973,1259,1971,1255,1970,1251,1969,1248,1967,1244,1966,1241,1964,1238,1963,1234,1961,1230,1959,1227,1958,1223,1957,1220,1955,1217,1953,1213,1951,1210,1950,1206,1948,1203,1947,1199,1946,1196,1945,1192,1944,1188,1943,1184],"size":0.319,"major":false},{"p":[1715,1058,1715,1054,1716,1050,1715,1046,1715,1043,1715,1039,1714,1035,1713,1031,1713,1027,1713,1024,1713,1020,1713,1016,1713,1012,1713,1008,1713,1004,1713,1001,1713,997,1712,993,1712,989,1711,985,1711,982,1711,978,1712,974,1711,970,1711,966,1711,963,1710,960,1710,956,1710,952,1711,948,1712,945,1713,941,1713,937,1712,933,1712,929,1712,925,1711,922],"size":0.311,"major":false},{"p":[2152,1677,2152,1673,2152,1669,2151,1665,2151,1661,2150,1658,2149,1654,2148,1650,2148,1646,2147,1642,2146,1639,2145,1635,2145,1631,2144,1627,2143,1623,2142,1621,2142,1617,2141,1613,2140,1609,2140,1605,2139,1601,2138,1598,2138,1594,2138,1590,2138,1586,2137,1582,2137,1579,2136,1575,2135,1571,2135,1567,2134,1563,2133,1560,2132,1557,2131,1553],"size":0.327,"major":false},{"p":[1852,620,1851,616,1850,612,1850,608,1849,606,1849,602,1848,598,1848,594,1847,590,1846,587,1845,583,1845,579,1844,575,1843,571,1842,567,1842,564,1841,560,1840,556,1840,552,1840,548,1840,545,1840,541,1840,537,1840,533,1839,529,1839,526,1838,522,1838,519,1837,515,1836,511,1836,507,1836,504,1835,500,1834,496],"size":0.303,"major":false},{"p":[2204,1610,2203,1606,2203,1602,2202,1599,2202,1595,2201,1591,2200,1587,2199,1583,2198,1581,2198,1577,2198,1573,2197,1569,2196,1565,2195,1561,2195,1558,2194,1554,2194,1550,2194,1546,2193,1542,2192,1539,2192,1535,2191,1531,2190,1527,2189,1523,2188,1521,2187,1517,2186,1513,2185,1509,2183,1505,2182,1502,2181,1499,2179,1495,2178,1491],"size":0.314,"major":false},{"p":[1999,1101,1999,1097,1997,1094,1995,1090,1993,1087,1991,1084,1989,1081,1988,1077,1986,1073,1984,1070,1983,1066,1982,1063,1980,1060,1979,1056,1979,1052,1978,1048,1977,1044,1976,1041,1975,1037,1974,1033,1974,1029,1973,1026,1972,1023,1972,1019,1971,1015,1970,1011,1969,1007,1969,1004,1968,1000,1968,996,1969,992,1969,988,1968,985],"size":0.289,"major":false},{"p":[2049,1147,2047,1144,2044,1142,2042,1139,2039,1136,2037,1133,2035,1130,2032,1127,2030,1124,2028,1121,2026,1118,2024,1114,2021,1111,2019,1108,2017,1105,2015,1103,2013,1099,2012,1095,2011,1092,2009,1088,2007,1085,2005,1082,2003,1079,2001,1075,1999,1072,1998,1068,1996,1064,1995,1062,1993,1058,1992,1054,1990,1051,1989,1047],"size":0.271,"major":false},{"p":[2176,1346,2175,1343,2174,1340,2173,1336,2171,1332,2170,1329,2168,1325,2167,1322,2165,1318,2163,1315,2161,1312,2159,1308,2158,1305,2157,1302,2155,1298,2153,1295,2151,1291,2148,1288,2146,1285,2143,1283,2140,1281,2138,1278,2135,1275,2133,1272,2130,1269,2128,1265,2126,1263,2124,1259,2123,1256,2121,1252,2118,1249],"size":0.307,"major":false},{"p":[1915,1140,1914,1136,1913,1132,1912,1129,1910,1125,1909,1122,1908,1118,1907,1114,1906,1110,1905,1106,1905,1104,1904,1100,1904,1096,1903,1092,1902,1088,1902,1084,1901,1081,1900,1077,1900,1073,1900,1069,1899,1065,1898,1062,1897,1058,1896,1054,1895,1051,1894,1047,1895,1044,1896,1040],"size":0.281,"major":false},{"p":[1788,920,1788,916,1787,912,1786,908,1785,905,1785,901,1784,897,1784,893,1783,889,1783,885,1783,882,1782,878,1782,874,1782,870,1782,866,1782,863,1782,859,1784,856,1785,852,1786,848,1787,845,1788,841,1789,837,1790,834,1791,830,1793,826,1795,824],"size":0.264,"major":false},{"p":[2175,1678,2174,1674,2173,1670,2173,1666,2172,1662,2172,1659,2171,1655,2171,1651,2170,1647,2170,1643,2169,1640,2169,1636,2168,1632,2168,1628,2167,1624,2167,1621,2166,1617,2165,1614,2164,1610,2163,1606,2162,1602,2161,1599,2161,1595,2160,1591,2159,1587,2158,1583],"size":0.271,"major":false},{"p":[2024,439,2024,435,2023,431,2023,428,2022,424,2022,420,2022,416,2023,412,2024,408,2024,405,2024,401,2024,397,2023,393,2023,389,2023,386,2022,382,2022,378,2021,374,2021,370,2020,367,2020,363,2019,359,2019,355,2019,351,2019,348,2019,344],"size":0.279,"major":false},{"p":[2032,1409,2030,1405,2028,1402,2026,1400,2024,1396,2021,1393,2019,1390,2019,1386,2017,1383,2015,1380,2014,1376,2012,1373,2010,1369,2008,1366,2007,1363,2005,1359,2004,1355,2002,1352,2001,1348,1999,1344,1998,1342,1996,1338,1994,1335,1993,1331,1992,1327],"size":0.248,"major":false},{"p":[1937,558,1936,554,1937,550,1937,547,1937,543,1938,539,1938,535,1939,531,1940,527,1942,525,1943,521,1944,517,1945,513,1945,509,1945,506,1945,502,1945,498,1945,494,1945,490,1945,487,1946,483,1947,479,1948,476,1949,472,1950,468],"size":0.242,"major":false}]};
   const rnd = (a, b) => a + Math.random() * (b - a);
 
   // each crevice: its points and the distance along it at each point (image px)

diff --git a/components/making-section.tsx b/components/making-section.tsx
@@ -20,14 +20,18 @@ const RISE = 29.6 - 8.1
 /**
  * MAKING section — laid out after the author's mock-up of 2026-10-30. The
  * photograph (the white vase in the burnt trunk, on white) runs the page's
- * full width, cut at the trunk's right edge so the trunk meets the page edge.
- * It rises up behind Selected, under that section's heading; its ground is
- * pure white (255), so it meets the page with no edge. The heading and the
+ * full width, whole: the white beyond the trunk's foot on the right shows
+ * too. It rises up behind Selected, under that section's heading; its ground
+ * is pure white (255), so it meets the page with no edge. The heading and the
  * manifesto stand on the left, under Selected's cards.
  *
  * The source is `D:\PANDOV\MARKETING\ELEMENTE WEBSITE\1 HOMEPAGE\Homepage_making.jpg`
- * (7667 × 5652), cropped to 7300 wide and exported 2400 wide, JPEG q86 4:4:4.
- * Read its top-left pixel after a re-export: it must be 255,255,255.
+ * (7667 × 5652), exported whole at 2400 wide (2400 × 1769), JPEG q86 4:4:4.
+ * It was first cut at 7300 wide, at the trunk's right edge, so the trunk met
+ * the page's edge; the author asked for the whole width the same evening.
+ * Read its top-left pixel after a re-export: it must be 255,255,255. The gold
+ * motes in its crevices (`public/pandov-grain.js`) are drawn in this file's
+ * pixels: a recrop moves them too (see CLAUDE.md).
  *
  * The old satori photograph's white washes and the band pinned to the middle
  * of the screen went with it: the new photograph is shown as it is.
@@ -84,7 +88,7 @@ export function MakingSection() {
           pointerEvents: leave < 1 ? "auto" : "none",
         }}
       >
-        <div style={{ position: "relative", width: "100%", aspectRatio: "2400 / 1858" }}>
+        <div style={{ position: "relative", width: "100%", aspectRatio: "2400 / 1769" }}>
           <Image
             src="/images/home/making-sculpture.jpg"
             alt="A white vase in a burnt trunk — the making process"

diff --git a/scripts/grain-lines/majors.py b/scripts/grain-lines/majors.py
@@ -19,7 +19,7 @@ from skimage.graph import route_through_array
 src, marks, out = sys.argv[1:4]
 im = Image.open(src).convert("RGB")
 G = np.asarray(im.convert("L"), dtype=np.float32) / 255.0
-X0, Y0, X1, Y1 = 1700, 0, 2400, 1800
+X0, Y0, X1, Y1 = 1600, 0, 2400, 1720
 g = G[Y0:Y1, X0:X1]
 g1 = nd.gaussian_filter(g, 1.0)
 rel = nd.gaussian_filter(g, 7) - g1

diff --git a/scripts/grain-lines/build.py b/scripts/grain-lines/build.py
@@ -28,7 +28,7 @@ white = nd.binary_dilation(G > 0.6, iterations=5)
 far_white = nd.binary_dilation(G > 0.6, iterations=11)
 
 # groove score and cost, over the trunk only
-X0 = 1700
+X0 = 1600
 sub = G[:, X0:]
 val = np.zeros_like(G)
 val[:, X0:] = sato(sub, sigmas=[1.5, 2.5, 3.5], black_ridges=True)

diff --git a/scripts/grain-lines/crevices.py b/scripts/grain-lines/crevices.py
@@ -25,7 +25,7 @@ src, out = sys.argv[1], sys.argv[2]
 im = Image.open(src).convert("RGB")
 W, H = im.size
 G = np.asarray(im.convert("L"), dtype=np.float32) / 255.0
-X0, Y0, X1, Y1 = 1700, 30, W, 1800
+X0, Y0, X1, Y1 = 1600, 30, W, 1720
 g = G[Y0:Y1, X0:X1]
 h, w = g.shape
 

diff --git a/CLAUDE.md b/CLAUDE.md
@@ -191,7 +191,7 @@ On the homepage's Making photograph (`making-sculpture.jpg`, the white vase in t
 - **In trains, all at one speed.** Loose motes read as chaos; the author asked for 3 to 8 to a line, one gap apart, all at the same pace. They come up out of a crevice at its lower end and sink back into it at its upper end.
 - **The bigger the crevice, the more motes.** Each line has a size from its length and depth: small ones carry 3–4, larger ones up to 7. The six long crevices the author marked on a screenshot (only where each starts and ends, not its route) are traced end to end as the darkest groove between those ends, carry 8–12, and up to two trains at a time.
 
-The lines live in the script as data. **If the photograph is re-exported or recropped, they must be traced again**, or the motes will run beside the crevices. `scripts/grain-lines/` has the steps (Python with numpy, scipy, scikit-image and Pillow): `crevices.py` traces the crevices, `majors.py` the author's six from `marks.json` (their ends, in the photograph's pixels), `build.py` puts them together with their sizes, and `assemble.py` writes `public/pandov-grain.js` from `pandov-grain.template.js`. The marks are in the 2400 × 1858 photograph's pixels, so a recrop moves them too.
+The lines live in the script as data. **If the photograph is re-exported or recropped, they must be traced again**, or the motes will run beside the crevices. `scripts/grain-lines/` has the steps (Python with numpy, scipy, scikit-image and Pillow): `crevices.py` traces the crevices, `majors.py` the author's six from `marks.json` (their ends, in the photograph's pixels), `build.py` puts them together with their sizes, and `assemble.py` writes `public/pandov-grain.js` from `pandov-grain.template.js`. The lines and the marks are in the pixels of the photograph as served, 2400 × 1769, so a recrop moves them too. The photograph was first cut at 7300 of the source's 7667 wide, at the trunk's right edge (2400 × 1858); the same evening the author asked for it whole, and the lines the author had approved were scaled by 7300/7667 rather than traced again, since the cut had been taken off the right only.
 
 ### Page shape
 
